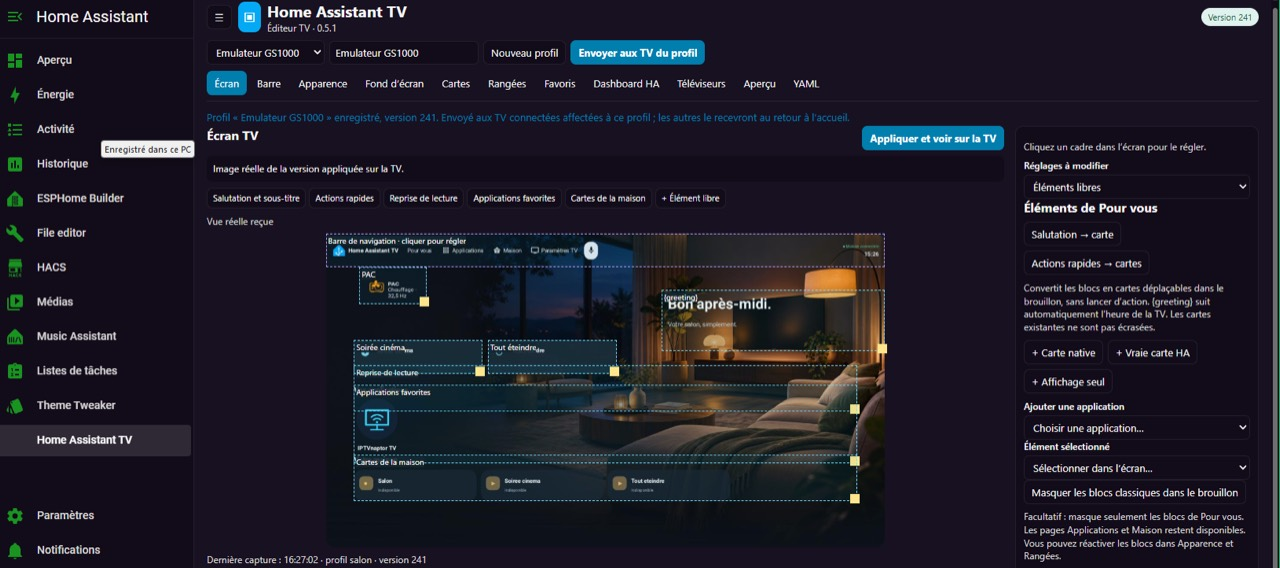
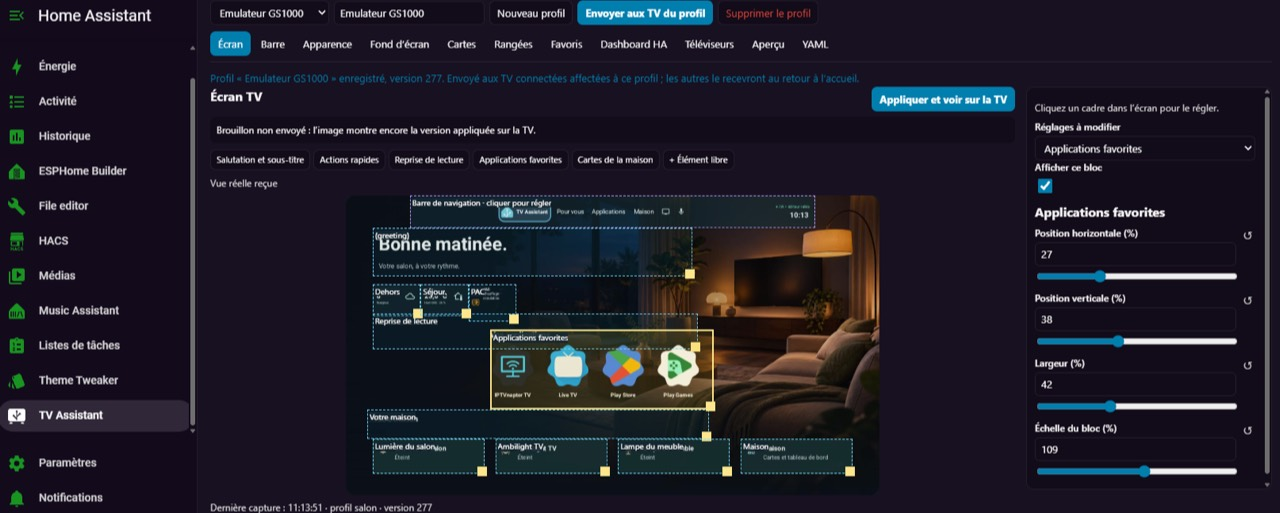
Refresh README gallery with approved TV and HA editor screenshots

diff --git a/README.md b/README.md
@@ -18,13 +18,34 @@ Un launcher Android TV personnalisable et un éditeur multi-TV dans Home Assista
 
 ### Accueil sur la TV
 
-![Accueil TV avec fond d’écran, carte PAC, favoris et commandes de la maison](docs/images/tv-home.jpg)
+![Accueil TV Assistant avec fond salon, météo, température, carte PAC, applications favorites et éclairages](docs/images/tv-home.jpg)
+
+Un exemple de disposition personnalisée : les informations de la maison, vos applications et les commandes restent sur le même écran.
 
 ### Éditeur dans Home Assistant
 
-![Éditeur Home Assistant avec aperçu de la TV et placement des éléments](docs/images/ha-editor.jpg)
+![Éditeur Home Assistant avec capture réelle, cadres de placement et réglages des applications favorites](docs/images/ha-editor.jpg)
 
-Captures fournies et autorisées pour publication par le propriétaire du projet. Elles illustrent une version antérieure au renommage en **TV Assistant** ; les libellés, applications et cartes visibles dépendent de votre configuration. Les métadonnées des fichiers ont été retirées.
+Déplacez et redimensionnez les éléments depuis Home Assistant. L’aperçu réel montre la disposition appliquée sur la TV ; les modifications restent en brouillon jusqu’à l’envoi.
+
+<details>
+<summary>Voir les variantes et les réglages de personnalisation</summary>
+
+### Fond TV Assistant et barre en bas
+
+![Accueil avec fond TV Assistant et barre de navigation compacte en bas](docs/images/tv-home-bottom-navigation.jpg)
+
+### Position et largeur de la barre
+
+![Réglages de la barre dans Home Assistant avec aperçu de son placement en bas de l’écran](docs/images/ha-navigation-editor.jpg)
+
+### Forme des icônes
+
+![Réglages d’apparence avec choix des formes d’icônes et aperçu des applications](docs/images/ha-appearance-editor.jpg)
+
+</details>
+
+Captures fournies et autorisées pour publication par le propriétaire du projet. Elles montrent un exemple personnalisé, pas la configuration par défaut : les libellés, applications, cartes et valeurs visibles dépendent de votre installation. Les métadonnées des fichiers ont été retirées ; aucun profil ni identifiant d’entité n’est fourni avec ces images.
 
 ## Compatibilité
 
@@ -84,7 +105,7 @@ L’APK utilise le même identifiant technique `fr.maison.tvlauncher`, pour pré
 
 Les anciens jetons sont migrés vers Android Keystore lors de leur lecture avec une adresse HTTPS valide. Les réglages locaux et jetons ne sont pas exportés dans les profils HA. Une nouvelle TV ou une réinstallation après désinstallation nécessite de ressaisir son jeton ; aucune sauvegarde Android des données de l’application n’est autorisée.
 
-Le dépôt ne contient ni jeton, clé de signature, fichier de configuration domestique, lien d’album personnel, ni ancien historique privé. Les exemples et tests utilisent des données fictives ; seules les deux captures de démonstration ci-dessus ont été expressément autorisées pour publication.
+Le dépôt ne contient ni jeton, clé de signature, fichier de configuration domestique, lien d’album personnel, ni ancien historique privé. Les exemples et tests utilisent des données fictives ; les captures de démonstration ci-dessus ont été expressément autorisées pour publication.
 
 ## Licence
 

diff --git a/docs/README.en.md b/docs/README.en.md
@@ -13,11 +13,36 @@ TV Assistant combines a customizable Android TV launcher with a multi-TV editor 
 
 ## Preview
 
-![TV home screen with wallpaper, heat pump card, app favorites and home controls](images/tv-home.jpg)
+### TV home screen
 
-![Home Assistant editor with a real TV preview and movable elements](images/ha-editor.jpg)
+![TV Assistant home screen with living room wallpaper, weather, temperature, heat pump, favorite apps and lights](images/tv-home.jpg)
 
-These owner-approved screenshots show an earlier version called Home Assistant TV. File metadata has been removed. Your apps, cards and labels depend on your configuration.
+An example of a personalized layout: home information, favorite apps and controls share the same screen.
+
+### Home Assistant editor
+
+![Home Assistant editor with a real TV capture, placement outlines and favorite apps layout settings](images/ha-editor.jpg)
+
+Move and resize elements from Home Assistant. The real preview shows the layout applied on the TV; changes remain a draft until sent.
+
+<details>
+<summary>More layouts and customization settings</summary>
+
+### TV Assistant wallpaper and bottom navigation
+
+![Home screen with TV Assistant wallpaper and a compact bottom navigation bar](images/tv-home-bottom-navigation.jpg)
+
+### Navigation position and width
+
+![Navigation settings in Home Assistant with a preview of the bar at the bottom of the screen](images/ha-navigation-editor.jpg)
+
+### App icon shapes
+
+![Appearance settings with icon shape choices and a preview of the apps](images/ha-appearance-editor.jpg)
+
+</details>
+
+These owner-approved screenshots show a personalized example, not the default configuration. Labels, apps, cards and displayed values depend on your setup. File metadata has been removed; no profile configuration or entity IDs are distributed with these images.
 
 ## Requirements
 
